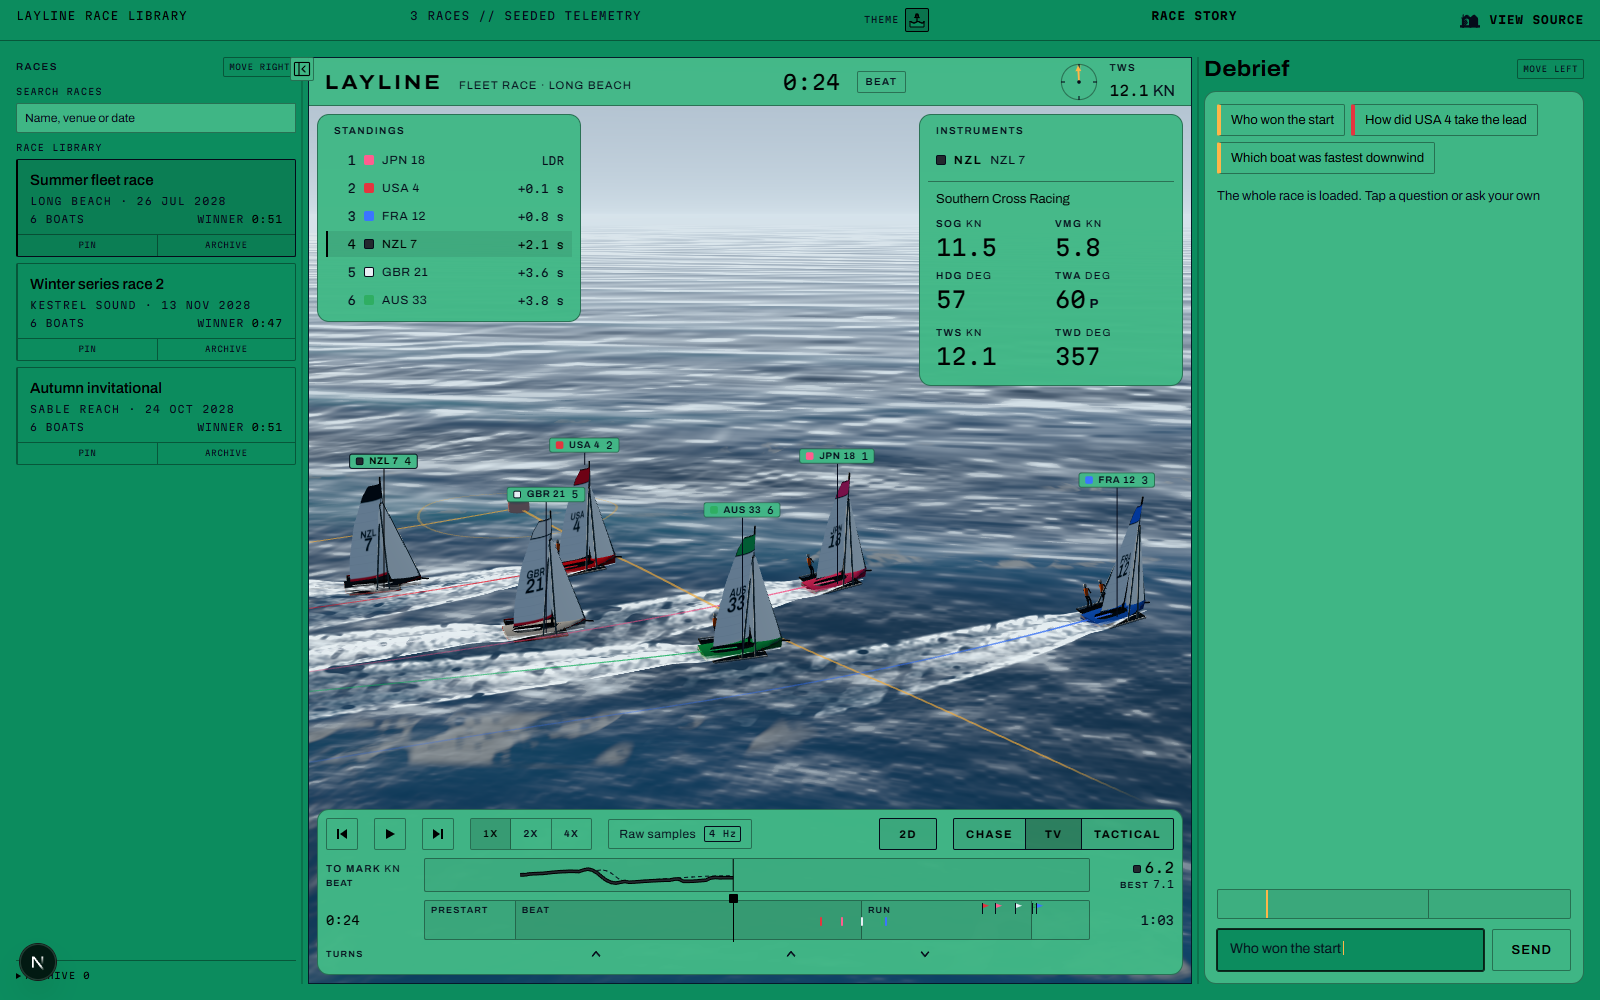
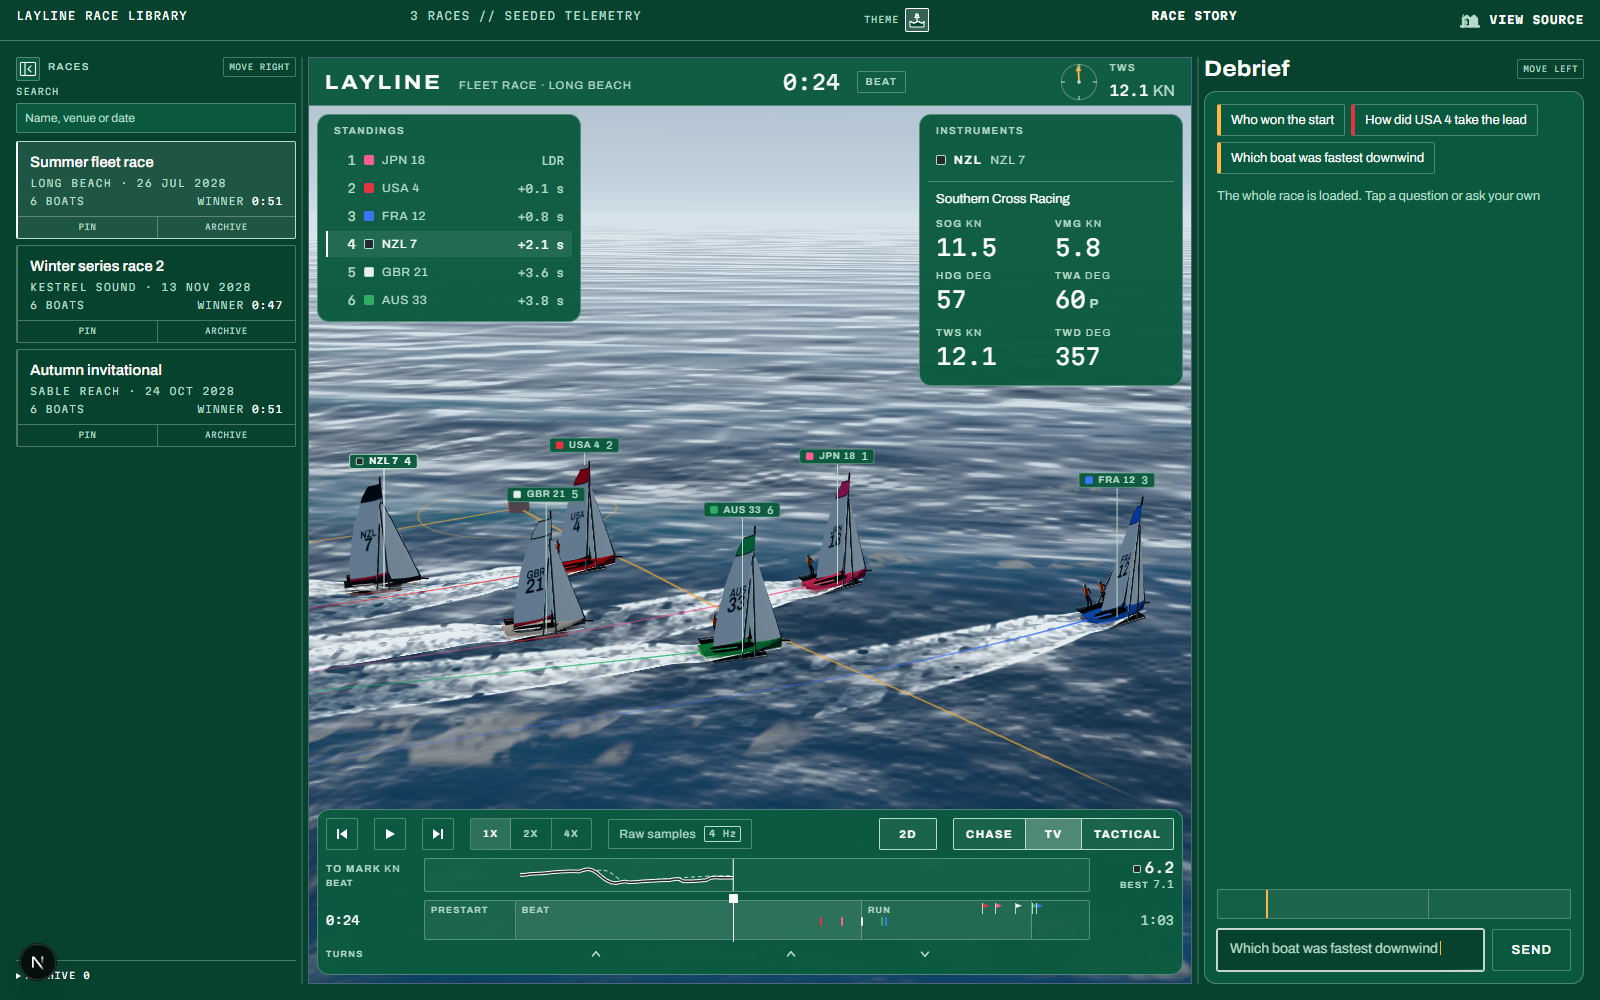
Drop the shelf headings and turn Marine white on a dark green (#273)
Two asks, both on the race library.

The shelf headings go. PINNED 1 and RACE LIBRARY captioned rows that already
say what they are: a pinned row shows PINNED on its own button, and the shelf
under it is the library whether or not a heading repeats the panel's title.
Both labels move onto their lists as aria-label, so a screen reader still hears
the grouping and the count. .groupLabel goes with them; .searchLabel keeps the
rule they shared.

Marine takes white text, which its old colours could not carry. On the #0c8c5e
ground white reads 4.26:1, under the 4.5:1 a 10px uppercase bar label needs,
and on the old lighter #41b884 plates it fell to 2.49:1. Measured in the page
rather than on paper: white ink over the shipped greens fails 112 elements,
worst pair 2.22:1.

So the greens come down with the ink. The ground goes to #06422e and the
plates go darker than the page instead of lighter, the way console does it.
White then reads 11.5:1 on the ground and 8.2:1 on a plate. The cursor turns
frost, because it follows the ground and not the theme's name, and the theme
swatch in the picker follows the new ground.

Audited across all five themes at 1600 by 1000 in headed Chrome: zero elements
below AA, marine's worst pair 5.48:1 against console 9.77, sailcloth 5.11,
chart 5.52 and ice 6.20.

The palette checkpoint's marine capture is regenerated at the same 0:24 freeze
its README documents, and its two reported pairs are remeasured. Marine is
[…]

diff --git a/src/app/prototype/layline/races/RaceWorkspace.tsx b/src/app/prototype/layline/races/RaceWorkspace.tsx
@@ -39,7 +39,7 @@ const THEME_STORAGE_KEY = "layline-races-theme-v1";
 const THEME_OPTIONS: readonly { id: LaylineTheme; label: string; ground: string }[] = [
   { id: "console", label: "Console", ground: "#070f16" },
   { id: "sailcloth", label: "Sailcloth", ground: "#dfdcd5" },
-  { id: "marine", label: "Marine", ground: "#0c8c5e" },
+  { id: "marine", label: "Marine", ground: "#06422e" },
   { id: "chart", label: "Chart", ground: "#f5f1e4" },
   { id: "ice", label: "Ice", ground: "#edfffe" },
 ];
@@ -763,16 +763,21 @@ export function RaceWorkspace({
         <div className={styles.rowScroller}>
           {pinnedRows.length === 0 ? null : (
             <div className={styles.rowGroup}>
-              <p className={styles.groupLabel}>{`Pinned ${pinnedRows.length}`}</p>
-              <ul className={styles.rows}>{pinnedRows.map((row) => renderRow(row))}</ul>
+              {/* Named for a screen reader, not drawn. A pinned row already
+                  says so on its own button, and the shelf below it is the
+                  library whether or not a heading repeats the panel's title. */}
+              <ul className={styles.rows} aria-label={`Pinned, ${pinnedRows.length}`}>
+                {pinnedRows.map((row) => renderRow(row))}
+              </ul>
             </div>
           )}
           <div className={styles.rowGroup}>
-            <p className={styles.groupLabel}>Race library</p>
             {regularRows.length === 0 ? (
               <p className={styles.emptyRows}>{emptyMainCopy}</p>
             ) : (
-              <ul className={styles.rows}>{regularRows.map((row) => renderRow(row))}</ul>
+              <ul className={styles.rows} aria-label="Race library">
+                {regularRows.map((row) => renderRow(row))}
+              </ul>
             )}
           </div>
         </div>

diff --git a/src/app/prototype/layline/layline.module.css b/src/app/prototype/layline/layline.module.css
@@ -141,14 +141,20 @@
   --house-cursor: var(--house-cursor-graphite);
 }
 
+/* The one dark theme that is not console. White ink sets the greens rather
+   than the other way round: on the old #0c8c5e ground white reaches only
+   4.26:1, under the 4.5:1 a 10px uppercase bar label needs, and on the old
+   lighter plates it fell to 2.49:1. Down here white reads 11.6:1 on the ground
+   and 8:1 on a plate, and the plates go darker than the page instead of
+   lighter, which is how console does it. Cursor turns frost with the theme. */
 .shell[data-layline-theme="marine"] {
-  --page-ground: #0c8c5e;
-  --hud-ground: rgba(65, 184, 134, 0.97);
-  --ink: #000000;
-  --ink-dim: #050b1a;
-  --rule: rgba(0, 0, 0, 0.38);
-  --focus-ring: #000000;
-  --house-cursor: var(--house-cursor-graphite);
+  --page-ground: #06422e;
+  --hud-ground: rgba(10, 90, 63, 0.97);
+  --ink: #ffffff;
+  --ink-dim: #b6dbc8;
+  --rule: rgba(255, 255, 255, 0.28);
+  --focus-ring: #ffffff;
+  --house-cursor: var(--house-cursor-frost);
 }
 
 .shell[data-layline-theme="chart"] {

diff --git a/src/app/prototype/layline/races/races.module.css b/src/app/prototype/layline/races/races.module.css
@@ -228,8 +228,7 @@
   gap: 5px;
 }
 
-.searchLabel,
-.groupLabel {
+.searchLabel {
   margin: 0;
   color: var(--ink-dim);
   font-family: var(--font-martian), monospace;

diff --git a/docs/layline-races-checkpoint/README.md b/docs/layline-races-checkpoint/README.md
@@ -6,11 +6,11 @@ Captured at 1600 by 1000 in headed Chrome with the replay frozen at 0:24 through
 |---|---|---:|---:|
 | Console | [console-1600.png](./console-1600.png) | 17.44:1 | 13.35:1 |
 | Sailcloth | [sailcloth-1600.png](./sailcloth-1600.png) | 12.83:1 | 14.52:1 |
-| Marine | [marine-1600.png](./marine-1600.png) | 4.93:1 | 8.47:1 |
+| Marine | [marine-1600.png](./marine-1600.png) | 11.50:1 | 8.24:1 |
 | Chart | [chart-1600.png](./chart-1600.png) | 13.57:1 | 14.50:1 |
 | Ice | [ice-1600.png](./ice-1600.png) | 15.26:1 | 15.31:1 |
 
-All reported pairs pass WCAG AA. Marine is the tightest body-text pair at 4.93:1.
+All reported pairs pass WCAG AA. Marine is still the tightest body-text pair, now at 11.50:1: it went white on a #06422e ground, so its old 4.93:1 black-on-#0c8c5e reading no longer exists.
 
 ## Icons at shipping size
 
